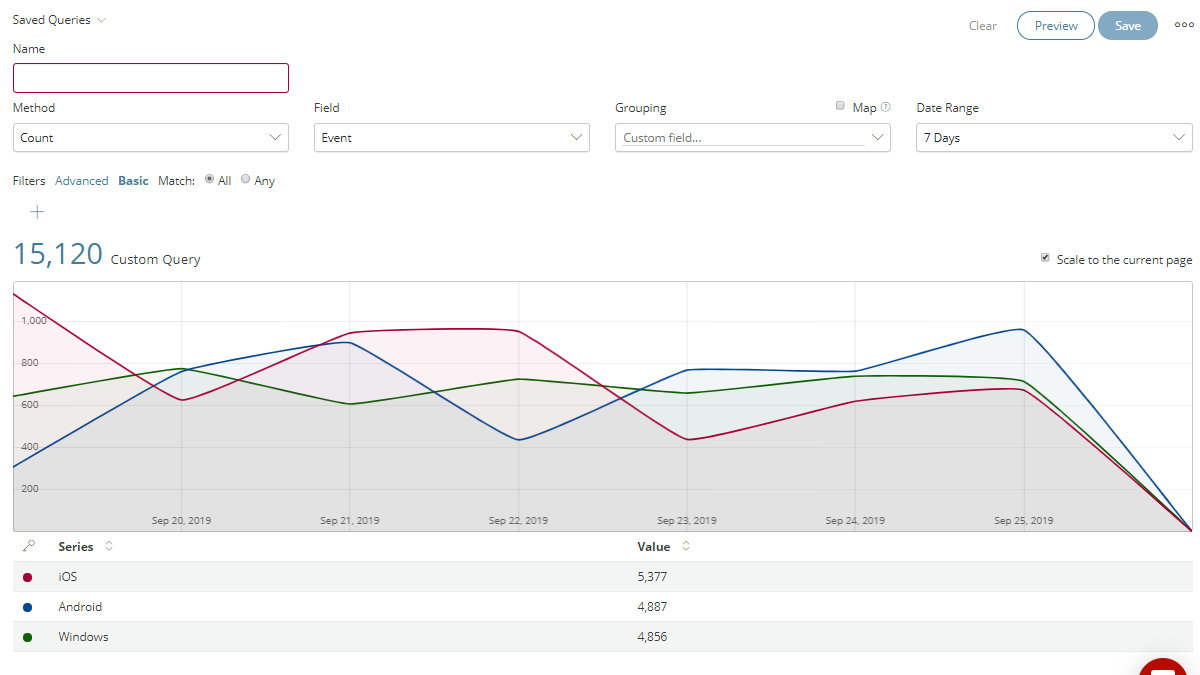
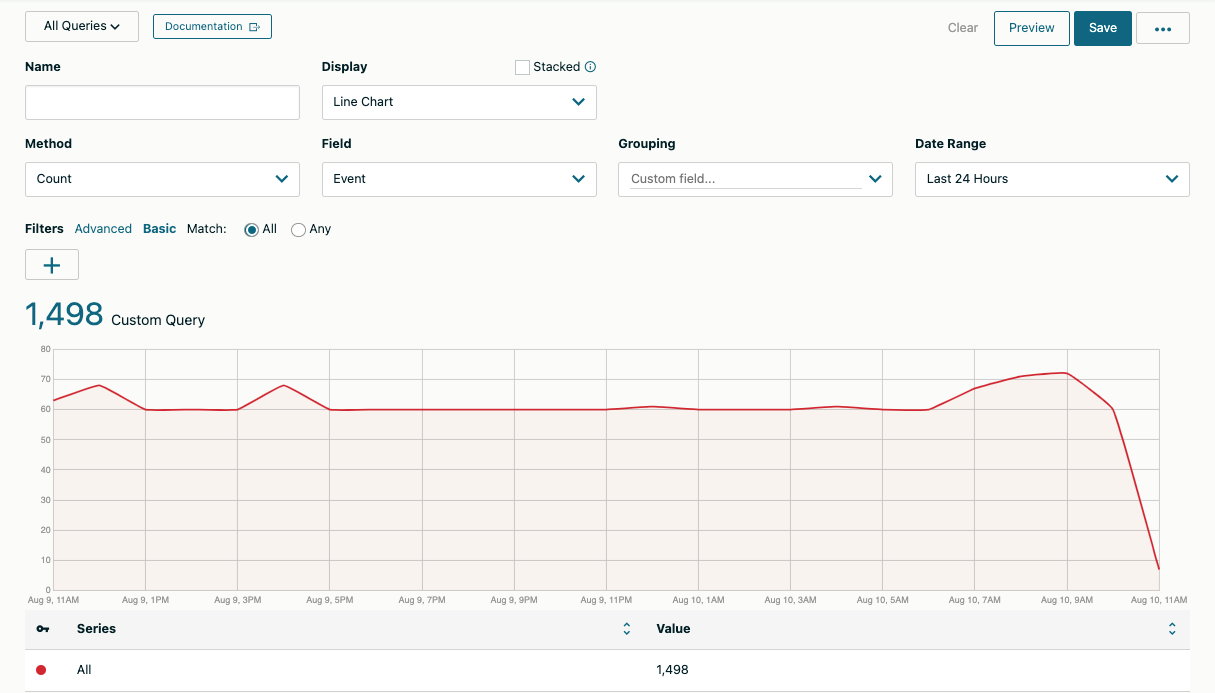
made edits to the creating custom queries and updated the screen shots (#93)

diff --git a/content/en/docs/management_guide/managing_applications/creating_custom_queries.md b/content/en/docs/management_guide/managing_applications/creating_custom_queries.md
@@ -5,7 +5,7 @@ weight: 60
 date: 2021-08-12
 ---
 
-By default, analytics are provided for Event names and counts, Amplify Runtime Requests, Average Session Length, Installs, Mobile Backend Service Requests, Push Notifications, Sessions, and Unique Devices. The Custom Queries feature enables you to create custom queries based on your application-specific metrics and analytical needs or expand upon the provided default analytics to meet your specific analytics needs.
+By default, analytics are provided for Runtime Services Requests, Average Session Length, Installs, Events, Mobile Backend Services Requests, Push Notifications, Sessions, and Unique Devices. The Custom Queries feature enables you to create custom queries based on your application-specific metrics and analytical needs or expand upon the provided default analytics to meet your specific analytics needs.
 
 ## Queries overview
 
@@ -22,14 +22,16 @@ Note that if you have not created any custom queries, selecting the **Custom Que
 To create a custom query without filtering:
 
 1. Enter a query name in the **Name** field.
-2. Select a **Method**. The Method drop-down menu selections are:
+2. Select a line or bar chart for the **Display**.
+3. Select a **Method**. The Method drop-down menu selections are:
     * Count
     * Cardinality
     * Average
     * Sum
     * Min
     * Max
-3. Select a **Field**. The Field drop-down menu selections are:
+    * Find - If selected, select the fields to include in the events and the limit, offet, and sort options.
+4. Select a **Field**. The Field drop-down menu selections are:
     * Custom - If selected, enter the custom field information.
     * Event
     * Application
@@ -39,7 +41,7 @@ To create a custom query without filtering:
     * Country
     * Session
     * Session Length
-4. Select a **Grouping**. The Grouping drop-down menu selections are:
+5. Select a **Grouping**. The Grouping drop-down menu selections are:
     * Custom - If selected, enter the custom grouping information.
     * Event
     * Application
@@ -49,20 +51,14 @@ To create a custom query without filtering:
     * Country
     * Session
     * Session Length - If selected, enter an **Interval**. The entered interval is the range to use when grouping numeric values.
-5. (Optional) Select the **Map** checkbox to display the results on a map instead of a chart. Please note this is not possible for averages.
-6. Select a **Date Range**. The Date Range drop-down menu selections are:
-    * From/To - If selected, enter the From and To dates and times. **Queries with From/To date ranges cannot be saved.**
-    * Custom - If selected, select a custom date range.
-        * Number of Months
-        * Number of Days
-        * Number of Hours
-        * Number of Minutes
-    * 3 Months
-    * 30 Days
-    * 7 Days
-    * 24 Hours
-    * 60 Minutes
-7. (Optional) Select the **Include current period** checkbox to Include up to the end of the current period for which there will be only partial data.
+6. (Optional) Select the **Map** checkbox to display the results on a map instead of a chart. Please note this is not possible for averages.
+7. Select a **Date Range**. The Date Range drop-down menu selections are:
+    * Last 3 Months
+    * Last 30 Days
+    * Last 7 Days
+    * Last 24 Hours
+    * Last 60 Minutes
+    * Custom - If selected, select a custom date range. **Queries with a specific date ranges cannot be saved.**
 8. (Optional) Click **Preview** to preview your custom query. The Custom Query section will be updated to display your custom query analytics preview.
 9. Click **Save** to save your custom query. Your custom query will be saved, the Saved Queries drop-down menu will be updated to include your saved custom query, the Custom Query section will be updated to display your custom query analytics, and your custom query will be available on the _Queries Overview_ screen.
 
@@ -71,14 +67,16 @@ To create a custom query without filtering:
 To create a custom query with filtering:
 
 1. Enter a query name in the **Name** field.
-2. Select a **Method**. The Method drop-down menu selections are:
+2. Select a line or bar chart for the **Display**.
+3. Select a **Method**. The Method drop-down menu selections are:
     * Count
     * Cardinality
     * Average
     * Sum
     * Min
     * Max
-3. Select a **Field**. The Field drop-down menu selections are:
+    * Find - If selected, select the fields to include in the events and the limit, offet, and sort options.
+4. Select a **Field**. The Field drop-down menu selections are:
     * Custom - If selected, enter the custom field information.
     * Event
     * Application
@@ -88,7 +86,7 @@ To create a custom query with filtering:
     * Country
     * Session
     * Session Length
-4. Select a **Grouping**. The Grouping drop-down menu selections are:
+5. Select a **Grouping**. The Grouping drop-down menu selections are:
     * Custom - If selected, enter the custom grouping information.
     * Event
     * Application
@@ -98,20 +96,14 @@ To create a custom query with filtering:
     * Country
     * Session
     * Session Length - If selected, enter an **Interval**. The entered interval specifies the range to use when grouping numeric values.
-5. (Optional) Select the **Map** checkbox to display the results on a map instead of a chart. Please note this is not possible for averages.
-6. Select a **Date Range**. The Date Range drop-down menu selections are:
-    * From/To - If selected, enter the From and To dates and times. **Queries with From/To date ranges cannot be saved.**
-    * Custom - If selected, select a custom date range.
-        * Number of Months
-        * Number of Days
-        * Number of Hours
-        * Number of Minutes
-    * 3 Months
-    * 30 Days
-    * 7 Days
-    * 24 Hours
-    * 60 Minutes
-7. (Optional) Select the **Include current period** checkbox to Include up to the end of the current period for which there will be only partial data.
+6. (Optional) Select the **Map** checkbox to display the results on a map instead of a chart. Please note this is not possible for averages.
+7. Select a **Date Range**. The Date Range drop-down menu selections are:
+    * Last 3 Months
+    * Last 30 Days
+    * Last 7 Days
+    * Last 24 Hours
+    * Last 60 Minutes
+    * Custom - If selected, select a custom date range. **Queries with a specific date ranges cannot be saved.**
 8. (Optional) Click **Preview** to preview your custom query. The Custom Query section will be updated to display your custom query analytics preview.
 9. Select **Basic**.
 10. For Match, select either **All** or **Any**.
@@ -128,13 +120,17 @@ To create a custom query with filtering:
     * Session Length
 13. Select a filter operand. The filter operand selections are:
     * Equals
-    * Not
+    * Is not
+    * Exists
+    * Is one of
     * Starts with
+    * Doesn't start with
     * Ends with
-    * Greater than
-    * Greater than or equal to
-    * Less than
-    * Less than or equal to
+    * Doesn't end with
+    * Is greater than
+    * Is greater than or equal to
+    * Is less than
+    * Is less than or equal to
 14. Complete the operand field or make a selection from the drop-down menu. The field selections are based on the selected filter type. To fetch the available field selections over the selected time range, click the **Magnify** icon. Optionally, you can select **Advanced** and enter the JSON coded filter.
 15. Click **Save** to save to save your custom query. Your custom query will be saved, the Saved Queries drop-down menu will be updated to include your saved custom query, the Custom Query section will be updated to display your custom query analytics, and your custom query will be available on the _Queries Overview_ screen.
 
@@ -156,10 +152,11 @@ To edit a custom query:
 
 1. Select the custom query to edit from the Saved Queries drop-down menu or from the _Queries Overview_ screen.
     ![Edit a query](/Images/custom_queries_edit.png)
-2. Edit the **Method**, **Field**, **Grouping**, and **Date Range** selections as needed.
+2. Edit the **Name**, **Display**, **Method**, **Field**, **Grouping**, and **Date Range** selections as needed.
 3. (Optional) Click **Preview** to preview your custom query changes. The Custom Query section will be updated to display your custom query analytics changes.
-4. Edit the filtering as needed.
-5. Click **Save** to save your custom query changes. The Custom Query section will be updated to display your custom query analytics changes.
+4. Click the **Actions** (**...**) menu to edit the chart display. You can also refresh the data and download chart data.
+5. Edit the filtering as needed.
+6. Click **Save** to save your custom query changes. The Custom Query section will be updated to display your custom query analytics changes.
 
 ## Deleting queries
 
@@ -193,13 +190,17 @@ To configure basic filtering:
     * Session Length
 5. Select a filter operand. The filter operand selections are:
     * Equals
-    * Not
+    * Is not
+    * Exists
+    * Is one of
     * Starts with
+    * Doesn't start with
     * Ends with
-    * Greater than
-    * Greater than or equal to
-    * Less than
-    * Less than or equal to
+    * Doesn't end with
+    * Is greater than
+    * Is greater than or equal to
+    * Is less than
+    * Is less than or equal to
 6. Complete the operand field or make a selection from the drop-down menu. The selections are based on the selected filter type. To fetch the available field selections over the selected time range, click the **Magnify** icon.
 7. (Optional) To add additional filters, click the **Plus** icon.
 8. To save the configured filtering as part of a custom query, click **Save**.
